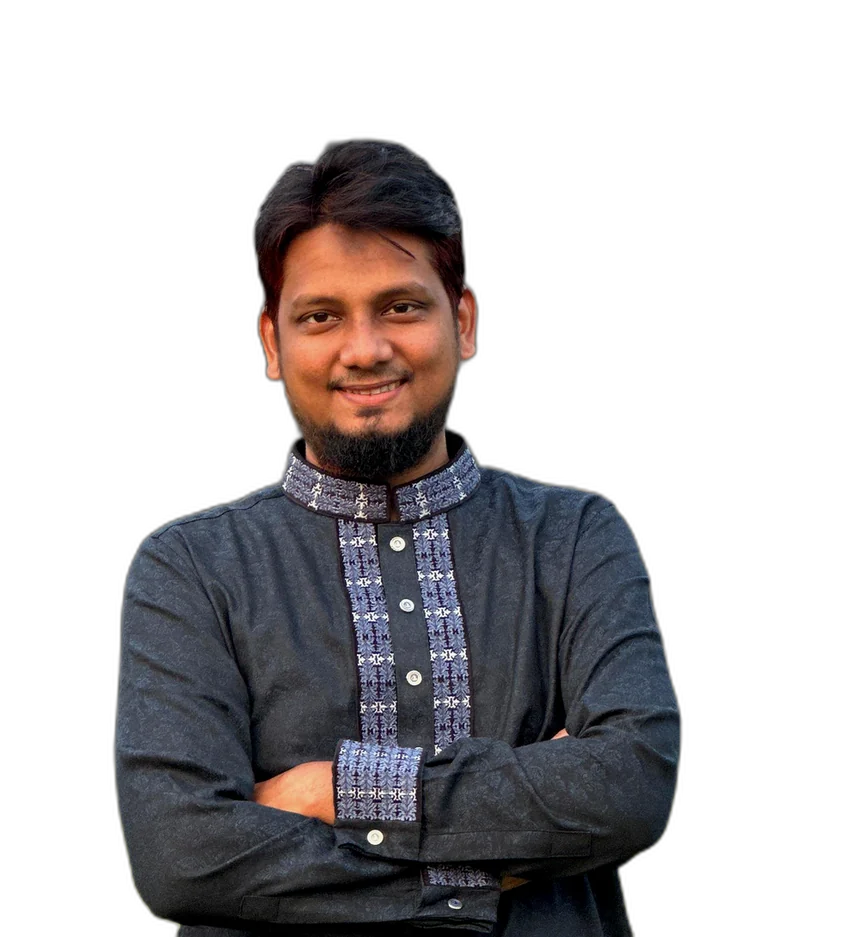
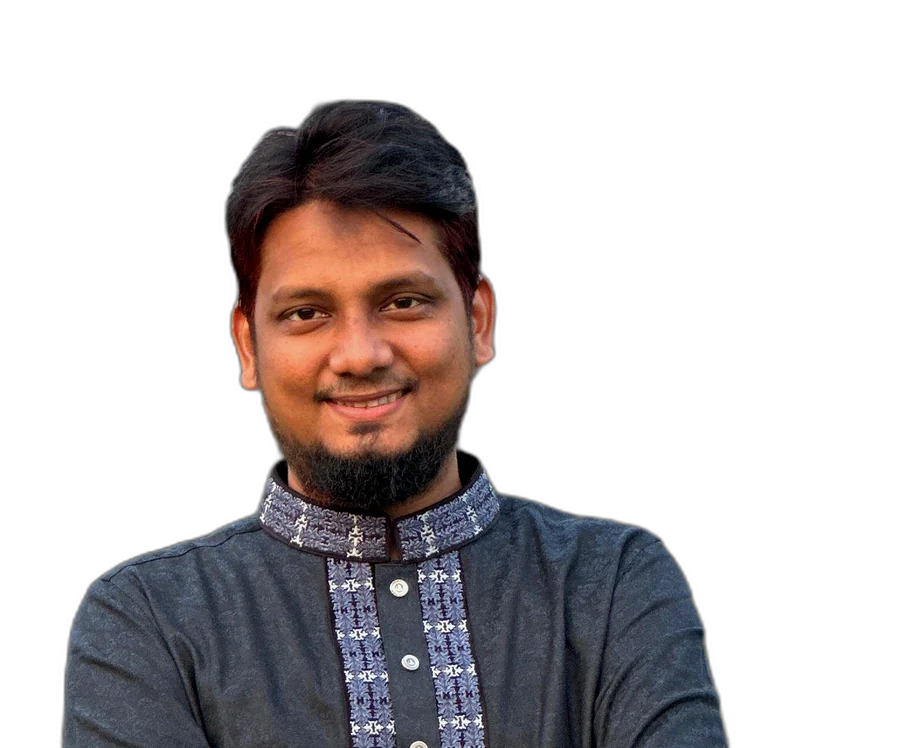
enhance hero section

diff --git a/src/styles/global.css b/src/styles/global.css
@@ -79,15 +79,21 @@ a { color: inherit; text-decoration: none; }
   height: 60px;
   padding: 0 10px 0 22px;
   border-radius: 999px;
-  border: 1px solid var(--border);
-  background: rgba(12, 14, 20, 0.62);
-  backdrop-filter: blur(14px) saturate(140%);
-  box-shadow: 0 12px 40px -18px rgba(0, 0, 0, 0.8);
+  /* glassmorphism — light, neutral frosted glass so content shows through */
+  border: 1px solid rgba(255, 255, 255, 0.12);
+  background: linear-gradient(180deg, rgba(255, 255, 255, 0.12), rgba(255, 255, 255, 0.05));
+  -webkit-backdrop-filter: blur(18px) saturate(150%);
+  backdrop-filter: blur(18px) saturate(150%);
+  box-shadow:
+    0 12px 40px -14px rgba(0, 0, 0, 0.55),
+    inset 0 1px 0 rgba(255, 255, 255, 0.14);
 }
 .nav .logo {
   font-family: var(--mono);
-  font-weight: 600;
-  letter-spacing: -0.02em;
+  font-weight: 700;
+  font-size: 21px;
+  text-transform: uppercase;
+  letter-spacing: 0.01em;
   white-space: nowrap;
 }
 .nav .logo .dot { color: var(--accent); }
@@ -98,10 +104,12 @@ a { color: inherit; text-decoration: none; }
 }
 .nav-links a {
   position: relative;
-  font-size: 14px;
+  font-family: var(--sans);
+  font-size: 15px;
+  font-weight: 600;
+  letter-spacing: -0.02em;
   color: var(--text-dim);
   transition: color 0.15s;
-  font-family: var(--mono);
 }
 .nav-links a::after {
   content: "";
@@ -236,7 +244,7 @@ h2.section-title {
 .hero h1 .accent-text {
   color: var(--accent-soft);
   white-space: nowrap;
-  text-shadow: 0 0 44px rgba(124, 108, 255, 0.55);
+  text-shadow: 0 0 22px rgba(124, 108, 255, 0.28);
 }
 
 /* L3 — lede (single body tone) */
@@ -254,8 +262,8 @@ h2.section-title {
 .hero-portrait {
   position: relative;
   z-index: 1;
-  width: min(440px, 80%);
-  margin: -28px auto 0;           /* tuck up so it sits subtly behind the copy */
+  width: min(500px, 84%);
+  margin: -20px auto 0;           /* tuck up so it sits subtly behind the copy */
 }
 /* soft violet aura behind the cut-out subject so it fits the hero */
 .hero-portrait::before {
@@ -278,6 +286,71 @@ h2.section-title {
   /* only fade the bottom so the subject dissolves into the page */
   -webkit-mask-image: linear-gradient(to bottom, #000 84%, transparent 100%);
   mask-image: linear-gradient(to bottom, #000 84%, transparent 100%);
+}
+
+/* --- Floating tech-stack constellation --- */
+.hero-web {
+  position: absolute;
+  inset: 0;
+  width: 100%;
+  height: 100%;
+  z-index: 0;
+  pointer-events: none;
+}
+.hero-web polyline {
+  fill: none;
+  stroke: rgba(124, 108, 255, 0.28);
+  stroke-width: 1;
+  stroke-dasharray: 1 6;
+  stroke-linecap: round;
+  vector-effect: non-scaling-stroke;
+}
+.hero-orbits {
+  position: absolute;
+  inset: 0;
+  z-index: 0;
+  pointer-events: none;
+}
+.orbit {
+  position: absolute;
+  left: var(--x);
+  top: var(--y);
+  width: var(--s);
+  height: var(--s);
+  margin: calc(var(--s) / -2);
+  display: grid;
+  place-items: center;
+  border-radius: 14px;
+  background: rgba(255, 255, 255, 0.03);
+  border: 1px solid rgba(255, 255, 255, 0.06);
+  box-shadow: 0 10px 30px -12px rgba(0, 0, 0, 0.6);
+  backdrop-filter: blur(2px);
+  opacity: 0.9;
+  animation: floatY var(--dur, 7s) ease-in-out var(--delay, 0s) infinite;
+}
+.orbit::before {
+  content: "";
+  position: absolute;
+  inset: -30%;
+  z-index: -1;
+  background: radial-gradient(closest-side, rgba(124, 108, 255, 0.18), transparent 70%);
+}
+.orbit img {
+  width: 62%;
+  height: 62%;
+  object-fit: contain;
+  display: block;
+}
+@keyframes floatY {
+  0%, 100% { transform: translateY(0); }
+  50% { transform: translateY(-12px); }
+}
+@media (prefers-reduced-motion: reduce) {
+  .orbit { animation: none; }
+}
+/* icons only fit in the gutters on wide screens */
+@media (max-width: 1180px) {
+  .hero-orbits, .hero-web { display: none; }
 }
 
 /* --- Hero entrance reveal (transform stays free for scroll parallax via `translate`) --- */